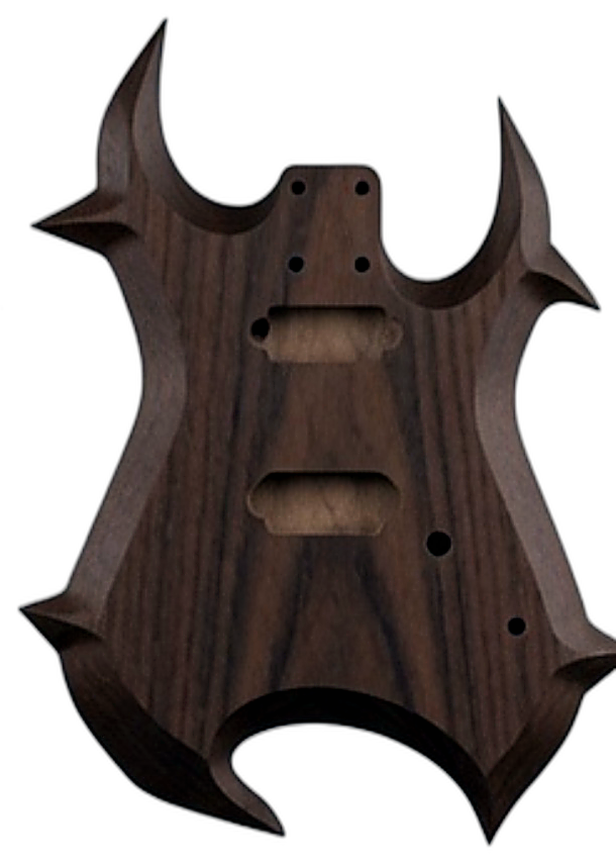
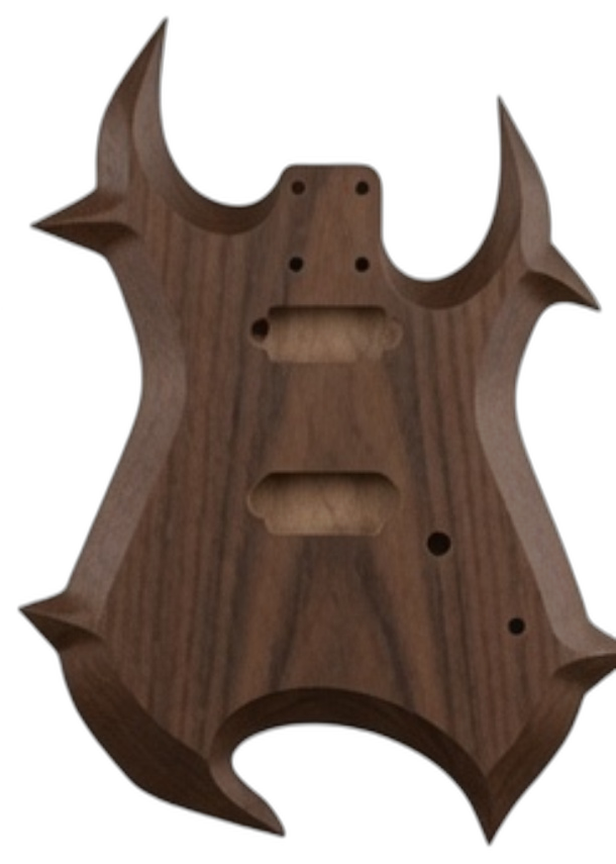
Colour-true shield cuts via new --no-enhance mode; guard empty rembg masks
Adds enhancer.prepare (orientation + flatten only) with a Settings flag
and --no-enhance CLI option for clean renders where tonal correction
shifts colours, and reprocesses the 15 shield bodies with it. Also falls
back to the classical slicers when rembg returns a near-empty mask
(fixes the no-backdrop regression the ML engine introduced).

Claude-Session: https://claude.ai/code/session_016YiRo5ZRmNAV1ia7XSY9TD

diff --git a/guitar_mechanic/enhancer.py b/guitar_mechanic/enhancer.py
@@ -15,6 +15,24 @@ from PIL import Image, ImageEnhance, ImageFilter, ImageOps
 MAX_SIDE = 2400
 
 
+def prepare(image: Image.Image) -> Image.Image:
+    """Orientation + transparency flattening only — no tonal changes.
+
+    For clean renders and catalogue shots where colour accuracy matters
+    more than correction.
+    """
+    img = ImageOps.exif_transpose(image)
+    if img.mode not in ("RGB", "RGBA"):
+        img = img.convert("RGB")
+    if img.mode == "RGBA":
+        background = Image.new("RGB", img.size, (255, 255, 255))
+        background.paste(img, mask=img.split()[3])
+        img = background
+    if max(img.size) > MAX_SIDE:
+        img.thumbnail((MAX_SIDE, MAX_SIDE), Image.LANCZOS)
+    return img
+
+
 def enhance(image: Image.Image) -> Image.Image:
     """Return an enhanced RGB copy of *image*."""
     img = ImageOps.exif_transpose(image)

diff --git a/guitar_mechanic/__main__.py b/guitar_mechanic/__main__.py
@@ -43,6 +43,10 @@ def build_parser() -> argparse.ArgumentParser:
 
     p_process = sub.add_parser("process", help="process everything in uploads/ once")
     p_process.add_argument(
+        "--no-enhance", action="store_true",
+        help="skip tonal enhancement (clean renders / colour-accurate shots)",
+    )
+    p_process.add_argument(
         "--category",
         help="force every processed image into this category "
         "(otherwise detected from the filename)",
@@ -67,6 +71,8 @@ def make_settings(args: argparse.Namespace) -> Settings:
         settings.ppi = args.ppi
     if getattr(args, "category", None):
         settings.category_override = args.category
+    if getattr(args, "no_enhance", False):
+        settings.enhance = False
     return settings
 
 

diff --git a/guitar_mechanic/slicer.py b/guitar_mechanic/slicer.py
@@ -32,6 +32,12 @@ CROP_MARGIN = 0.02
 def slice_component(image: Image.Image) -> Image.Image:
     """Return the component cut out of *image* as a cropped RGBA image."""
     rgba = _rembg_cutout(image)
+    if rgba is not None:
+        # rembg finding almost nothing means there was no clear subject —
+        # fall back to the classical engines rather than return emptiness.
+        fill = (np.asarray(rgba.split()[3]) > 16).mean()
+        if fill < 0.01:
+            rgba = None
     if rgba is None:
         rgba = _best_cutout(image)
     return _crop_to_alpha(rgba)

diff --git a/guitar_mechanic/mechanic.py b/guitar_mechanic/mechanic.py
@@ -98,7 +98,10 @@ class Mechanic:
                 return Result(path, "duplicate")
 
             with Image.open(path) as raw:
-                enhanced = enhancer.enhance(raw)
+                if self.settings.enhance:
+                    enhanced = enhancer.enhance(raw)
+                else:
+                    enhanced = enhancer.prepare(raw)
             sliced = slicer.slice_component(enhanced)
 
             entries: list[dict]

diff --git a/guitar_mechanic/config.py b/guitar_mechanic/config.py
@@ -105,6 +105,7 @@ class Settings:
     root: Path = field(default_factory=Path.cwd)
     ppi: int = DEFAULT_PPI
     category_override: str | None = None
+    enhance: bool = True
 
     @property
     def uploads_dir(self) -> Path:
